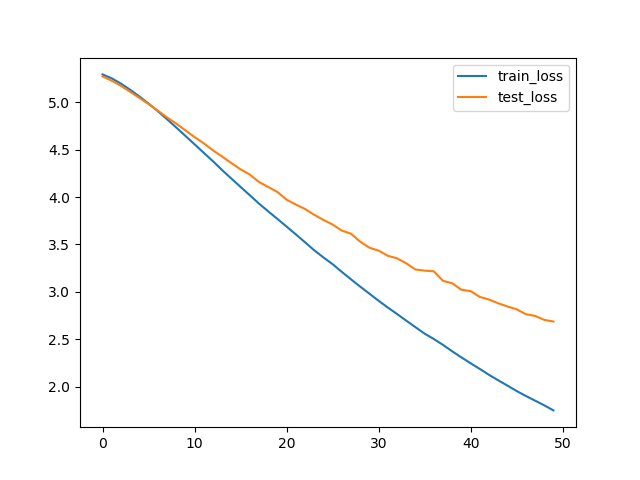
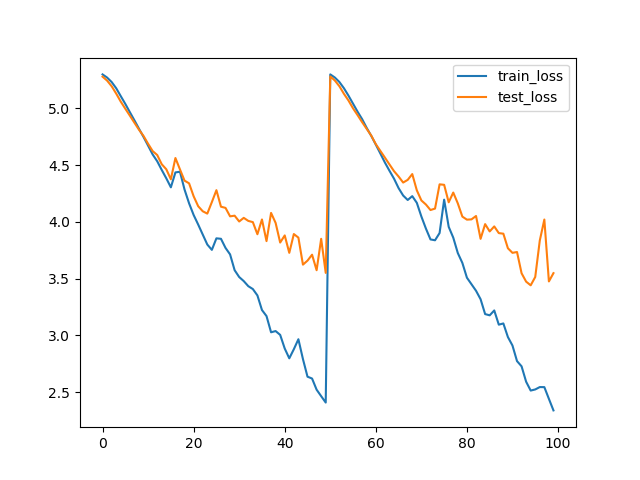
Update result

diff --git a/models/BCNN.py b/models/BCNN.py
@@ -14,23 +14,24 @@ class BCNN(nn.Module):
                                       resnet50.layer1,
                                       resnet50.layer2,
                                       resnet50.layer3,
-                                      resnet50.layer4)
-        self.fc = nn.Linear(2048*2048, 200)
-        # for param in self.features.parameters():
-        #     param.requires_grad = True
-        # t.nn.init.kaiming_normal_(self.fc.weight.data)
-        # if self.fc.bias is not None:
-        #     t.nn.init.constant_(self.fc.bias.data, val=0)
+                                      resnet50.layer4,
+                                      resnet50.avgpool)
+        self.fc = nn.Linear(2048, 200)
+        for param in self.features.parameters():
+            param.requires_grad = True
+        t.nn.init.kaiming_normal_(self.fc.weight.data)
+        if self.fc.bias is not None:
+            t.nn.init.constant_(self.fc.bias.data, val=0)
 
     def forward(self, x):
         out = self.features(x)
         N = out.size()[0]
-        Y = out.size(2)
-        # [1, 2048, 8* 8]
-        out = out.view((N, out.size(1), Y**2))
-        # [1, 2048, 2048]
-        out = t.bmm(out, t.transpose(out, 1, 2)) / Y**2
-        # [1, 2048*2048]
+        # Y = out.size(2)
+        # # [1, 2048, 8* 8]
+        # out = out.view((N, out.size(1), Y**2))
+        # # [1, 2048, 2048]
+        # out = t.bmm(out, t.transpose(out, 1, 2)) / Y**2
+        # # [1, 2048*2048]
         out = out.view(N, -1)
         out = t.nn.functional.normalize(t.sign(out) * t.sqrt(t.abs(out) + 1e-10))
         # out = t.nn.functional.normalize(out)
@@ -42,8 +43,10 @@ class BCNN(nn.Module):
 if __name__ == '__main__':
     # pre_dict = m.vgg16(pretrained=True)
     # print(pre_dict)
-    model = BCNN().cuda()
+    model = BCNN()
+    # model = m.resnet50(pretrained=True)
+    # print(model)
     input = t.randn((1, 3, 256, 256))
-    # out = model(input)
-    # print(out.shape)
-    summary(model, (3, 256, 256))
+    out = model(input)
+    print(out.shape)
+    # summary(model, (3, 256, 256))

diff --git a/utils/show.py b/utils/show.py
@@ -4,8 +4,8 @@ import os
 
 if __name__ == '__main__':
 
-    train_file = open("../checkpoint/vgg16_each_epoch_record_train.txt", 'r')
-    test_file = open('../checkpoint/vgg16_each_epoch_record_val.txt', 'r')
+    train_file = open("../checkpoint/BCNN_each_epoch_record_train.txt", 'r')
+    test_file = open('../checkpoint/BCNN_each_epoch_record_val.txt', 'r')
 
     train_total = train_file.readlines()
     test_total = test_file.readlines()
